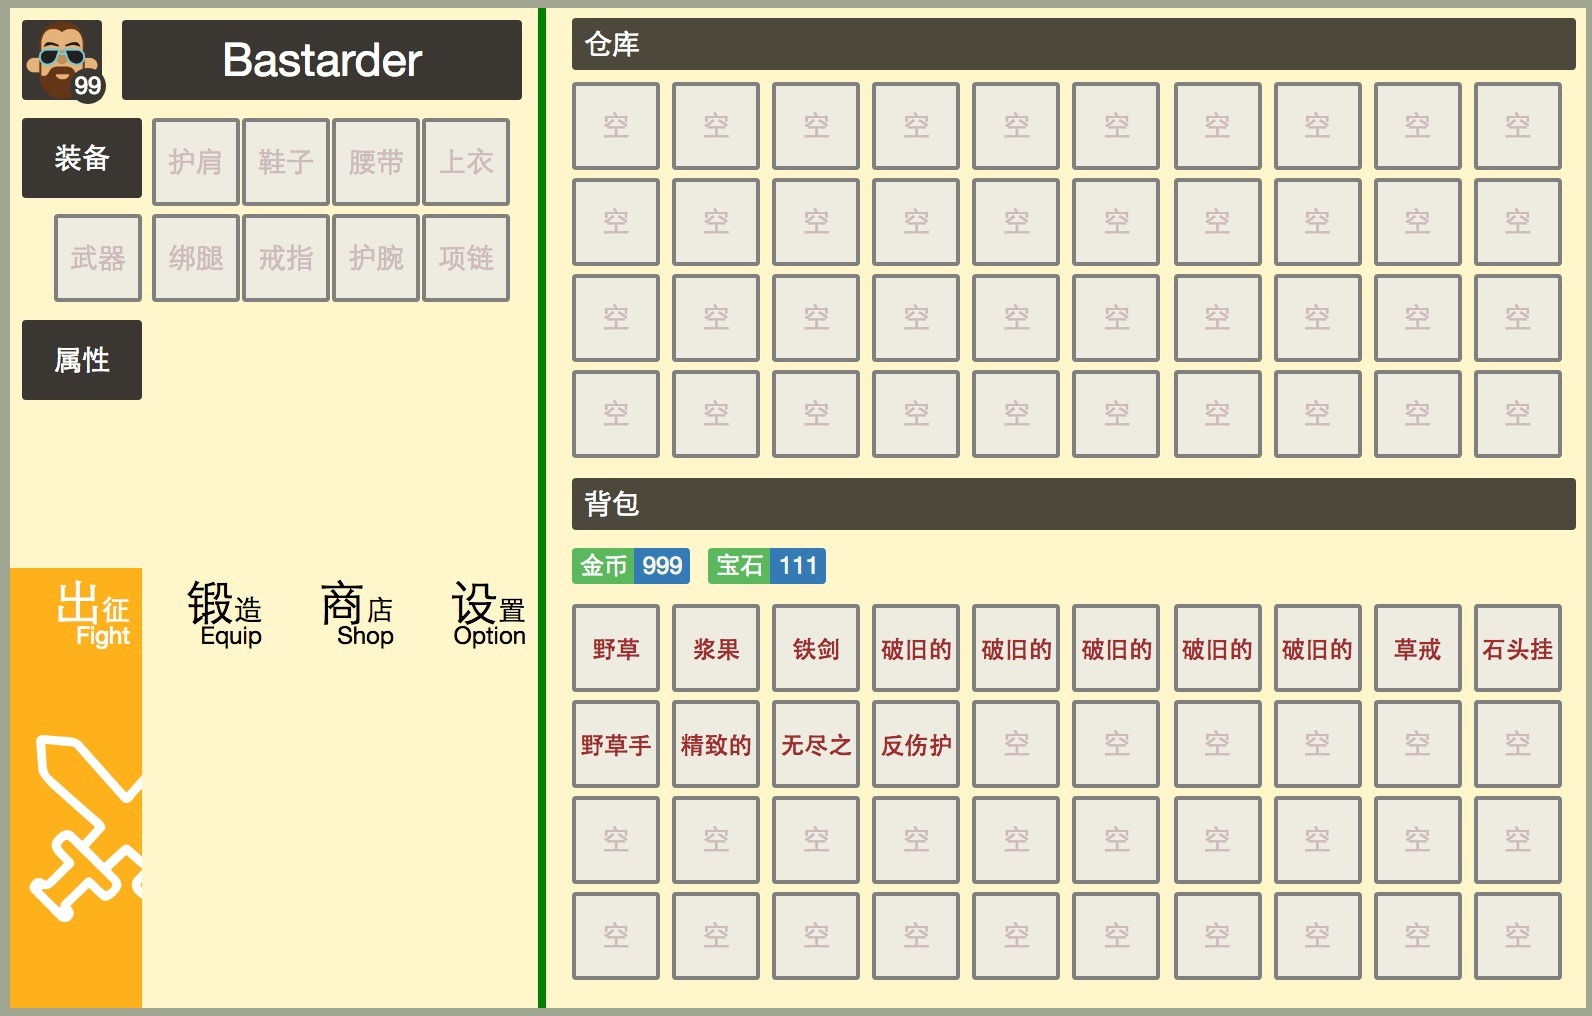
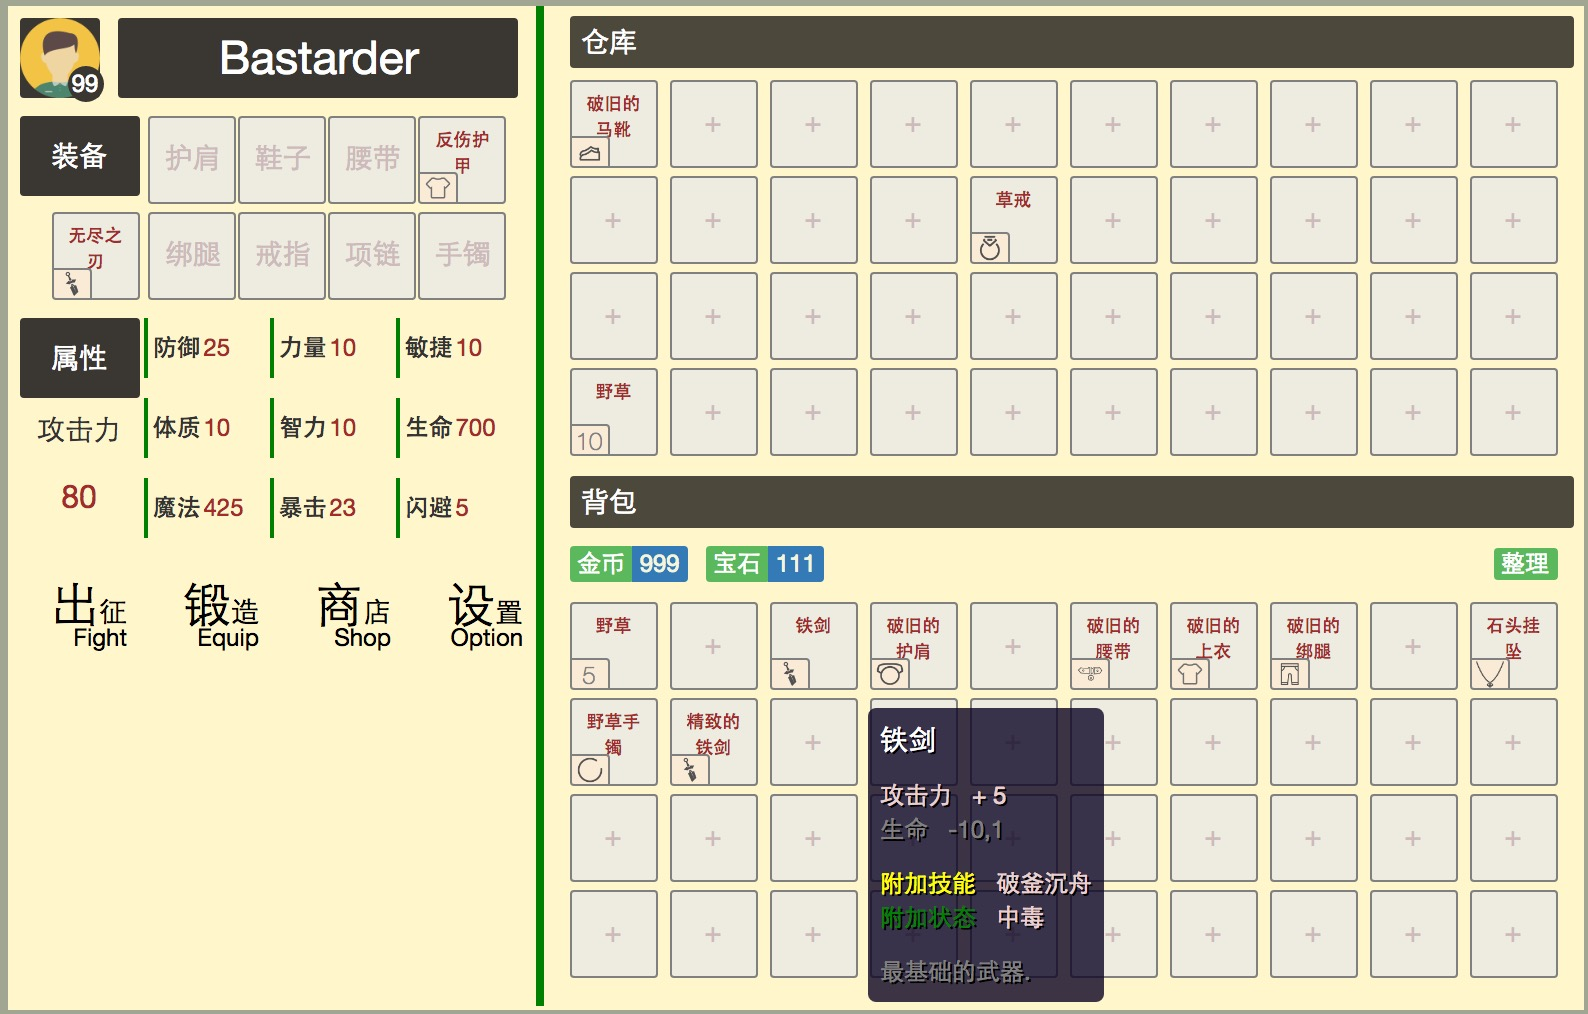
地图中 展开背包 人物属性

diff --git a/src/components/game-map-active.vue b/src/components/game-map-active.vue
@@ -1,5 +1,15 @@
 <template>
   <div class="game-map-active">
+    <transition enter-active-class="animated slideInUp" leave-active-class="animated slideOutDown">
+      <game-package class="v-package" v-show="this.infoMenu"></game-package>
+    </transition>
+    <transition enter-active-class="animated slideInDown" leave-active-class="animated slideOutUp">
+      <game-home-info class="right-info" v-show="this.infoMenu" transition="bounce"></game-home-info>
+    </transition>
+    <div :class="['show-btn',this.infoMenu ? 'opend' : 'closed']" @click="showInfo">
+      <i v-if="this.infoMenu" class="fa fa-angle-double-left" aria-hidden="true"></i>
+      <i v-else class="fa fa-angle-double-right" aria-hidden="true"></i>
+    </div>
     <div class="map-data">
       <div class="map">
         <div v-for="(line,x) in map.$data.mapData">
@@ -14,6 +24,7 @@
               'end' : block.block_type == '3' ,
             }"
             @click="autoMove(block)">
+            <img class="map-block" v-if="block.block_type == '1'" :src="'./src/assets/hero-1.png'"/>
             <img class="map-block" v-if="block.FEvent" :src="'./src/assets/event-fight.png'"/>
             <img class="map-block" v-if="block.DEvent" :src="'./src/assets/event-dialog.png'"/>
           </span>
@@ -67,10 +78,17 @@ import Astar from '../js/astar'
 import HeroMoveEvent from '../js/map-hero-move'
 import { MapDialog } from '../js/event-class'
 import { DIALOG_DATA } from '../data/event-data'
+import Menu from './game-home-menu.vue'
+import Info from './game-home-info.vue'
 
 export default {
+  components :{
+    'game-home-menu' : Menu,
+    'game-home-info' : Info
+  },
   data () {
     return {
+      infoMenu : false,
       map : null,
       path : null,
       DialogEvent : {},
@@ -88,6 +106,9 @@ export default {
     this.moveEvent && this.moveEvent.stop();
   },
   methods : {
+    showInfo() {
+      this.infoMenu = !this.infoMenu;
+    },
     autoPisition (){
       let $m = $('.game-map-active'),
           $b = $($('.map-block')[0]),
@@ -99,7 +120,6 @@ export default {
         'left' : ((($m.width() - Bx * row)/2) - (hero.y - (col - 1)/2) * Bx) + 'px',
         'top' : ((($m.height() - By * col)/2) - (hero.x - (row - 1)/2) * By) + 'px'
       },300)
-      
     },
     autoMove (end){
       this.moveEvent.autoMove(
@@ -111,7 +131,52 @@ export default {
 
 </script>
 
-<style>
+<style scoped lang="less">
+.game-map-active{
+  position: relative;
+  overflow: hidden;
+}
+
+.game-home-info{
+  position: absolute;
+  z-index: 2;
+}
+
+.game-package{
+  position: absolute;
+  z-index: 2;
+  background: #fff6cb;
+  top: 230px;
+}
+
+.show-btn{
+  background: #fff6cb;
+  position: absolute;
+  z-index: 3;
+  width: 20px;
+  height: 62px;
+  line-height: 62px;
+  text-align: right;
+  top: 168px;
+  border-radius: 0px 2px 2px 0px;
+  padding-right: 4px;
+  transition: width 0.6s;
+  cursor: pointer;
+}
+
+@keyframes move
+{
+  0% { padding-right: 4px;}
+  100% { padding-right: 18px;}
+}
+
+.show-btn.opend{
+  width: 520px;
+  transition: 1s;
+  border-radius :0px;
+  animation: move 0.6s infinite;
+}
+
 .map-data{
   position: relative;
   height: 500px;
@@ -123,7 +188,7 @@ export default {
   width: 40px;
   height: 40px;
   vertical-align: top;
-  border-radius: 4px;
+  border-radius: 2px;
 }
 .map-block.stick{
   background: black;
@@ -136,7 +201,7 @@ export default {
   cursor: pointer;
 }
 .map-block.hero{
-  background: blue;
+  background: white;
 }
 .map-data .map{
   position: absolute;

diff --git a/src/components/game-map.vue b/src/components/game-map.vue
@@ -1,13 +1,16 @@
 <template>
   <div class="game-map">
-    <router-link class="btn btn-info btn-sm" to="/">
-      <i class="fa fa-reply" aria-hidden="true"></i> 回 家
-    </router-link>
-    <hr>
+    <div class="bottom">
+      <router-link class="back-btn" to="/">
+        <i class="fa fa-reply" aria-hidden="true"></i> 回 家
+      </router-link>
+    </div>
     <div class="list">
-      <template v-for="map in mapList">
+      <template v-for="map in this.mapList">
         <div class="item" @click="goTo(map)">
-          <span class="name">{{ map.name }}</span> 
+          <span class="name">
+            {{ map.name }}
+          </span> 
           <span class="dsc">{{ map.dsc }}</span>
         </div>
       </template>
@@ -44,37 +47,73 @@ export default {
 
 <style scoped lang="less">
  .game-map{
+   background: #fff6cb;
+   height: 100%;
    .list{
      padding: 10px;
+     height: 440px;
+     overflow-x: hidden; 
      .item{
-       user-select: none;
-       cursor: pointer;
-       border: 1px solid gray;
-       margin-bottom: 12px;
-       padding: 20px;
-       font-size: 17px;
-       border-radius: 2px;
-       border-left: 4px solid green;
-       transition: 0.3s;
-       height : 66px;
+        user-select: none;
+        display: inline-block;
+        position: relative;
+        border: 1px solid black;
+        cursor: pointer;
+        margin-bottom: 12px;
+        padding: 10px 20px;
+        width: 300px;
+        margin-left: 48px;
+        font-size: 17px;
+        border-radius: 2px;
+        height: 66px;
+        vertical-align: top;
+        overflow: hidden;
        .name{
-         color: black;
-         margin-left: 0px;
-         transition: 0.3s;
+         display: inline-block;
+         text-align: center;
+         width: 260px;
+         font-size: 30px;
+         transition: width 0.3s;
+       }
+       .level{
+         display: none;
+       }
+       .dsc{
+         display: block;
+         font-size: 12px;
+         margin-left: 300px;
        }
      }
      .item:hover{
+       box-shadow: 0px 0px 2px black inset;
+       transition: 0.3s;
        .name{
-         color: white;
-         margin-left: 50px;
-         transition: 0.6s;
+         display: inline-block;
+         text-align: center;
+         font-size: 18px;
+         width: 60px;
        }
-       background: red;
-       color: white;
-       transition: 0.6s;
-       height: 100px;
+       .dsc{
+         margin-left: 10px;
+         transition: 0.3s;
+       }
      }
 
+   }
+   .bottom{
+     height: 60px;
+     border-top: 2px solid green;
+     padding: 20px 58px;
+     .back-btn{
+       border: 1px solid gray;
+       border-radius: 2px;
+       padding: 4px 8px;
+       color: black;
+       text-decoration: none;
+     }
+     .back-btn:hover{
+       box-shadow: 0px 0px 1px black inset;
+     }
    }
  }
 </style>

diff --git a/src/components/game-home-info.vue b/src/components/game-home-info.vue
@@ -1,21 +1,23 @@
 <template>
   <div class="game-home-info">
-    <div class="main">
-      <div class="logo">
-        <img :src="'./src/assets/hero-1.png'"/>
-        <div class="level">99</div>
+    <div class="right-info-left">
+      <div class="main">
+        <div class="logo">
+          <img :src="'./src/assets/hero-1.png'"/>
+          <div class="level">99</div>
+        </div>
+        <div class="name">Bastarder</div>
       </div>
-      <div class="name">Bastarder</div>
-    </div>
-    <div class="equip">
-      <div class="left">
-        <div class="label-name">装备</div>
-        <component-item class="weapon" :item="hero.$equipments[0]" :position-index="'$equipments|0'"></component-item>
-      </div>
-      <div class="right">
-        <template v-for="(item, index) in hero.$equipments">
-          <component-item class="item" v-if="index" :item="item" :position-index="'$equipments|' + index"></component-item>
-        </template>
+      <div class="equip">
+        <div class="left">
+          <div class="label-name">装备</div>
+          <component-item class="weapon" :item="hero.$equipments[0]" :position-index="'$equipments|0'"></component-item>
+        </div>
+        <div class="right">
+          <template v-for="(item, index) in hero.$equipments">
+            <component-item class="item" v-if="index" :item="item" :position-index="'$equipments|' + index"></component-item>
+          </template>
+        </div>
       </div>
     </div>
     <div class="info">
@@ -180,6 +182,20 @@ export default {
             color: brown;
           }
         }
+      }
+    }
+  }
+
+  .game-home-info.right-info{
+    height: 168px;
+    width: 520px;
+    .right-info-left,.info{
+      display: inline-block;
+    }
+    .info{
+      vertical-align:top;
+      .attr{
+        padding: 12px 2px;
       }
     }
   }

diff --git a/src/components/game-fight.vue b/src/components/game-fight.vue
@@ -1,6 +1,8 @@
 <template>
   <div class="game-fight row">
+    
     <div class="col-xs-12">
+    <canvas id="fight-wall"></canvas>
       <div class="round">
         <!--'background':'url(./src/assets/fight-round.png)', -->
         <span class="round-logo" :style="{ 
@@ -251,9 +253,14 @@
 </script>
 
 <style>
+ #fight-wall{
+   border: 1px solid #eee;
+ }
+
  .game-fight .state-list{
    height: 24px;
  }
+
  .game-fight .state-list .state{
    cursor: pointer;
    width: 14px;

diff --git a/src/js/event-class.js b/src/js/event-class.js
@@ -81,6 +81,12 @@ const MapDialog = function(opt, $VueScope, moveEvent){
               this.$i = i[1]
             }else{
               unit.getItem(get, true);
+              _.each(need,item => {
+                let [id,num] = item;
+                let it = _.find(unit.$package,{id});
+                it.num -= num;
+                !it.num && (it = 0);
+              })
               this.$i = i[2]
             }
           }

diff --git a/src/data/event-data.js b/src/data/event-data.js
@@ -8,7 +8,7 @@ const DIALOG_DATA = [
           "[我没有]{1,1}",
           "#[我有的]{3,4,2,1}"
         ] ,
-        need : [[3000001,1],[3000002,1]],
+        need : [[3000001,1],[3000002,2]],
         get  : [[3000003,1]]
       },
       '没诚意滚蛋!',

diff --git a/src/components/game-package.vue b/src/components/game-package.vue
@@ -65,7 +65,7 @@ export default {
  .game-package{
    padding: 5px;
    height: 270px;
-   width: 100%;
+   width: 520px;
    .block-name{
      margin-left: 8px;
      background: rgba(0,0,0,0.7);

diff --git a/src/data/map-data.js b/src/data/map-data.js
@@ -19,7 +19,7 @@ const MAP_TABLE = [
     rule: {          // 生成规则;
       "5000001" : 4,
       "5000002" : 5,
-      "7000001" : 10,
+      "7000001" : 1,
     }
   },
   {

diff --git a/src/store.js b/src/store.js
@@ -15,7 +15,7 @@ Vue.use(Vuex)
 
 let test1 = PGET(3000001);
 test1.num = 10;
-let test2 = PGET(3000001);
+let test2 = PGET(3000002);
 test2.num = 5;
 
 var hero = new Unit(

diff --git a/src/components/component-item.vue b/src/components/component-item.vue
@@ -155,6 +155,7 @@ export default {
    color: white;
    text-shadow: black 1px 1px;
    font-size: 10px;
+   z-index: 99;
  }
 
   .item-tool-tip-pover .name,
